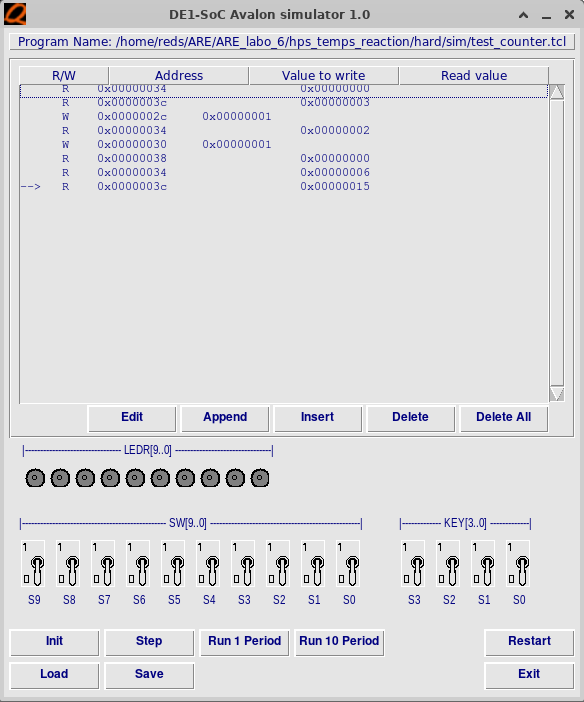
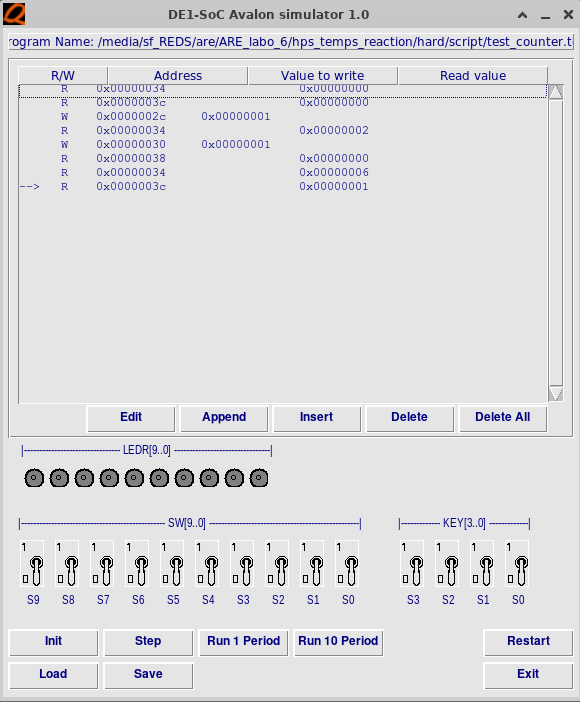
Added test de simulation imgs et dans rapport

diff --git a/rapport.md b/rapport.md
@@ -16,6 +16,11 @@
   - [Emetteur série asynchrone](#emetteur-série-asynchrone)
 - [Implémentation](#implémentation)
 - [Tests](#tests)
+  - [Simulation](#simulation)
+    - [IOs](#ios)
+    - [Compteurs](#compteurs)
+    - [Interruptions](#interruptions)
+    - [Test serial transmission to max10](#test-serial-transmission-to-max10)
 - [Conclusion](#conclusion)
 
 # Introduction
@@ -71,6 +76,42 @@ Pour l'émetteur série asynchrone, nous avons dû utilsé une baudrate de 9600.
 # Implémentation
 
 # Tests
+
+## Simulation
+
+### IOs
+
+On a fait une première simulation pour vérifier les IOs. On a fait une suite de R/W sur les adresses de la mémoire. On a vérifié que les valeurs lues correspondaient aux valeurs écrites.
+
+![](./imgs/test_IOs.png)
+
+### Compteurs
+
+On a fait une deuxième simulation pour vérifier le compteur. On a fait un test avec 0 périodes supplémentaires. On voit bien que le compteur s'incrémente de 2 avec chaque instruction. On a un total de 6 périodes. entre le début et la fin du comptage.
+
+![](./imgs/test_cmpt_0_periods.png)
+
+Avec 10 périodes supplémentaires, on voit qu'on a un total de 16 périodes entre le début et la fin du comptage.
+
+![](./imgs/test_cmpt_10_periods.png)
+
+### Interruptions
+
+Pour les interruptions, on a fait un premier test pour vérifier que l'interruption se déclenche bien. On a changé la position du bouton 0 de 0 à 1. On voit bien que l'interruption se déclenche.
+
+On peut bien voir qu'on n'a pas d'interruption à la première lecture du registre 0x14 et qu'on a une interruption à la deuxième lecture.
+
+Dans la deuxième partie de la simulation, on a activé le masque d'interruption. On voit bien que l'interruption ne se déclenche pas, mais que le bit d'indication de flanc montant est à 1.
+
+![](./imgs/test_itp.png)
+
+### Test serial transmission to max10
+
+Pour tester la transmission série vers le max10, on a fait un test avec une valeur de 0xabaa et un chip select de 0x01. Cela nous donne une data de 0x01abaa ou bien 0b0001_1010_1011_1010_1010.
+
+On a aussi changé la vitesse de la baudrate pour avoir une pulse tous les 4 cycles. 
+
+![](./imgs/test_max10.png)
 
 # Conclusion
 
